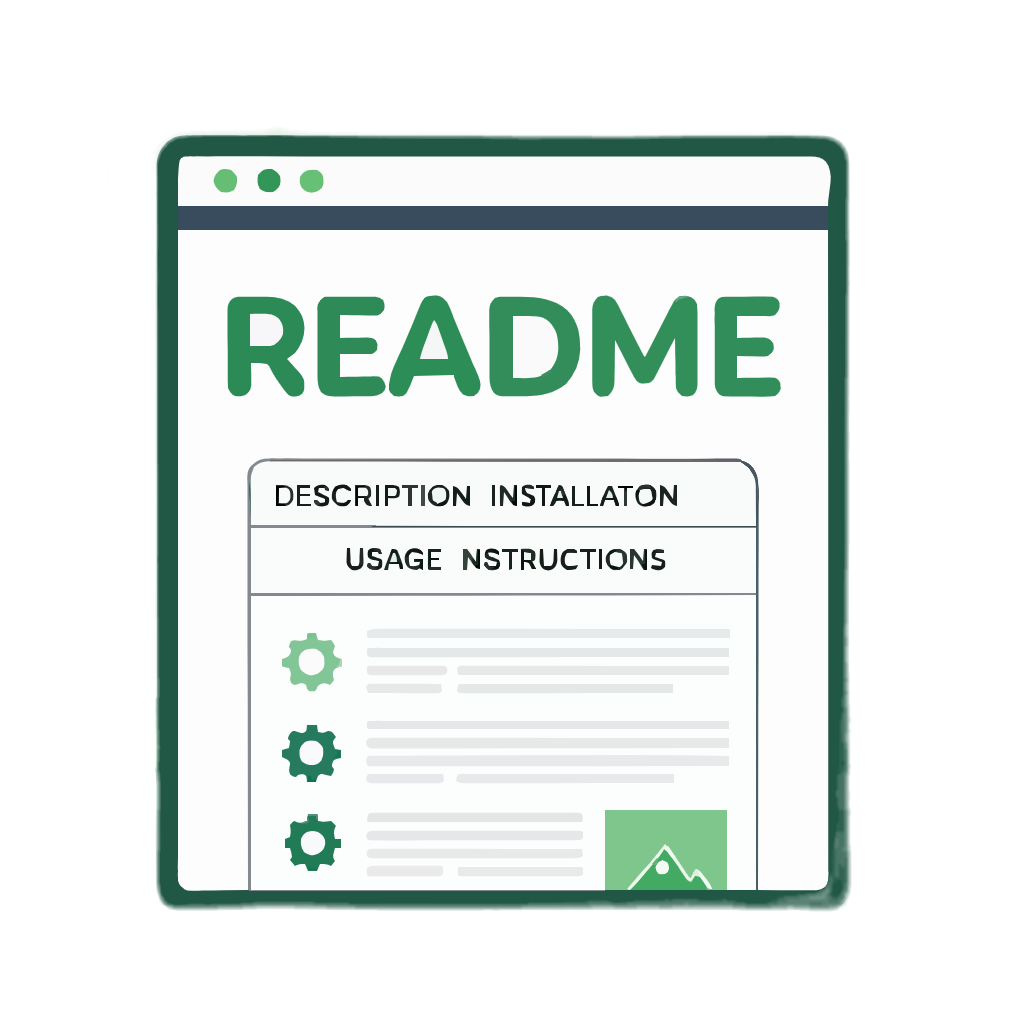
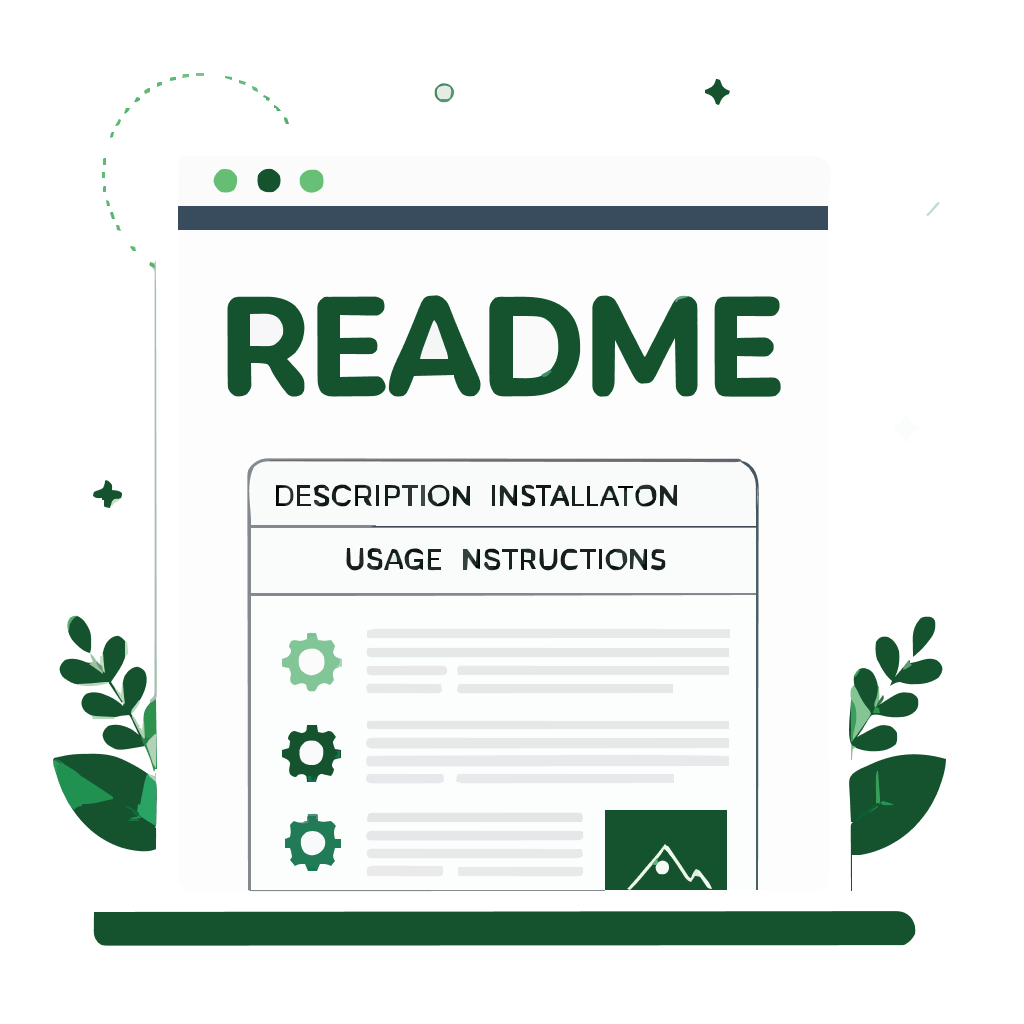
refactor: update home page image

diff --git a/readme/templates/index.html b/readme/templates/index.html
@@ -10,10 +10,10 @@
 
 {% block content %}
 
-    <main class="bg-blend-hard-light flex justify-center items-center min-h-[90vh]">
-        <div class="container mx-auto px-3 sm:px-0 flex justify-center items-center md:justify-between h-full">
+    <main class=" flex justify-center items-center min-h-[90vh]">
+        <div class="container mx-auto px-3 sm:px-0 flex justify-center items-center md:justify-between h-full flex-col-reverse md:flex-row gap-y-10 md:gap-2">
             <!-- Left content -->
-            <div class="h-1/2 flex flex-col justify-center items-center text-center flex-1">
+            <div class="h-1/2 flex flex-col justify-center items-center text-center">
                 <h1 class="text-green-900 font-bold text-5xl md:text-6xl mb-6 md:mb-3">Create Readme Files</h1>
                 <p class="mb-3">
                     Genenrate professional readme files for your project without our initiative drag and drop builder and also view our templates.
@@ -28,11 +28,10 @@
                 </div>
             </div>
             <!-- Image container -->
-            <div class="hidden md:flex mix-blend-multiply justify-center items-center">
+            <div class="flex justify-center items-center">
                 <img src="{% static 'media/images/home.png' %}"
-                     alt="readme svg"
-                     width="70%"
-                     height="70%" />
+                     class='max-w-[60%]'
+                     alt="readme svg" />
             </div>
         </div>
     </main>
